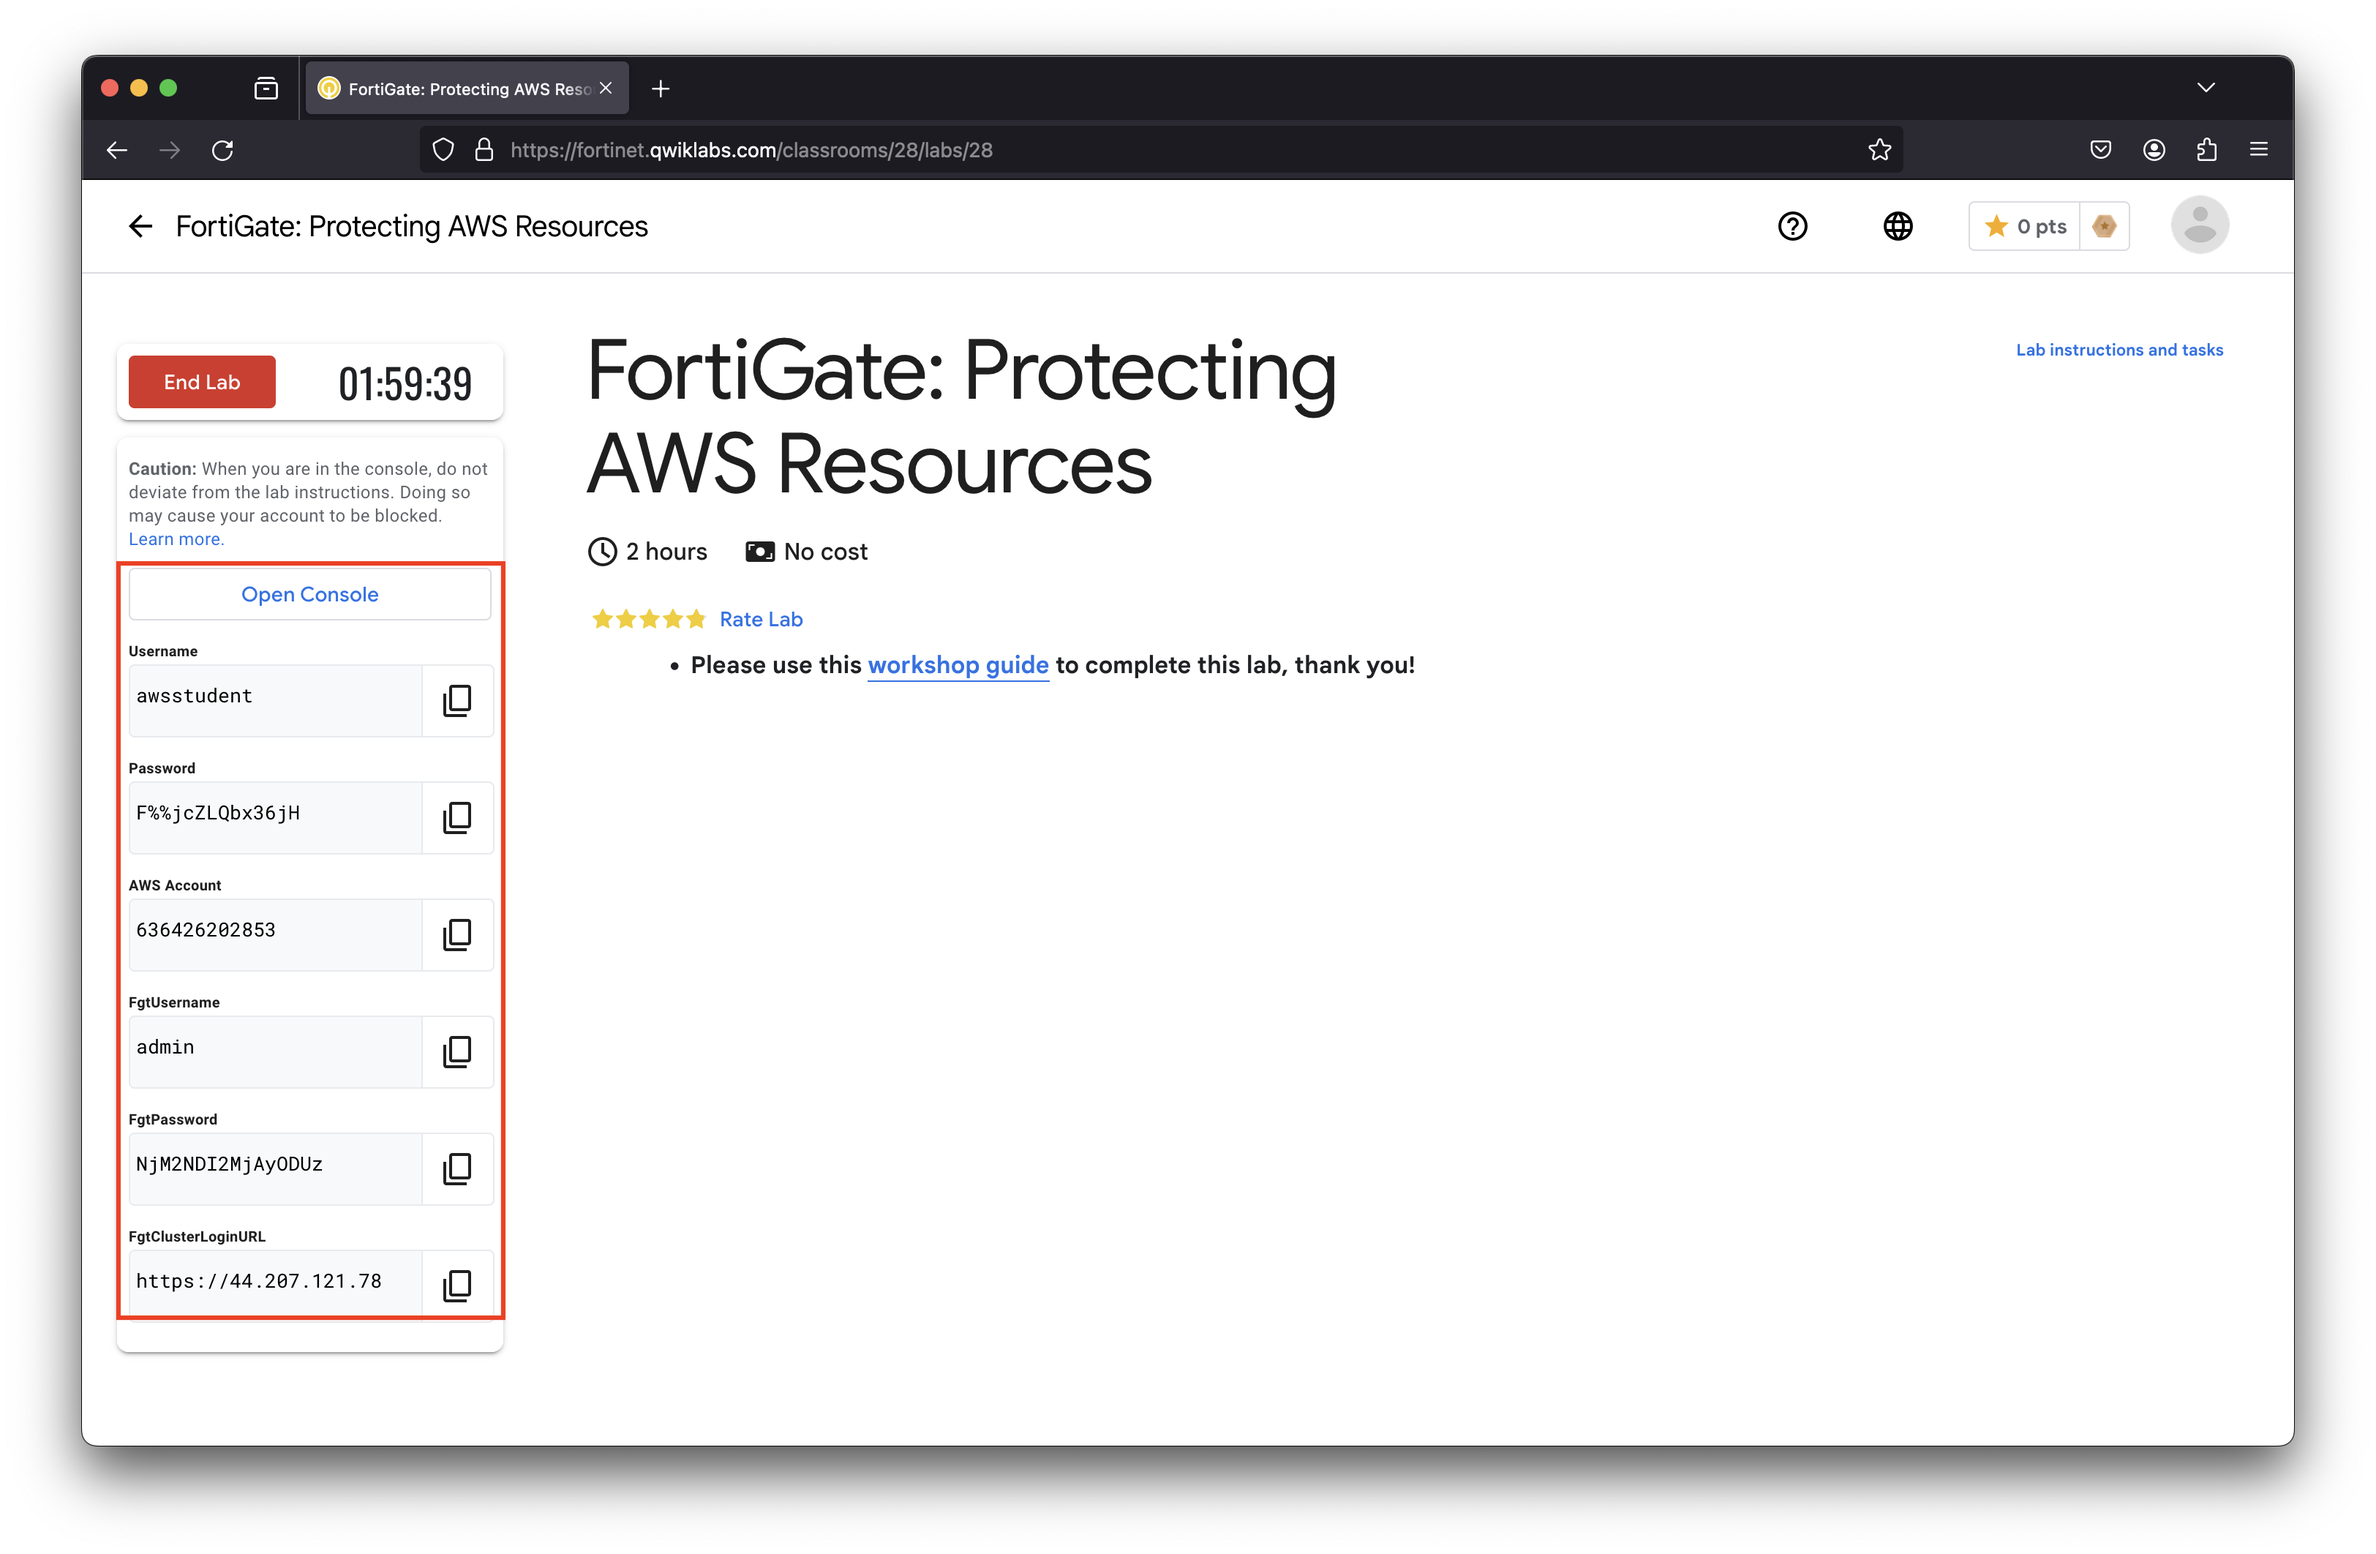
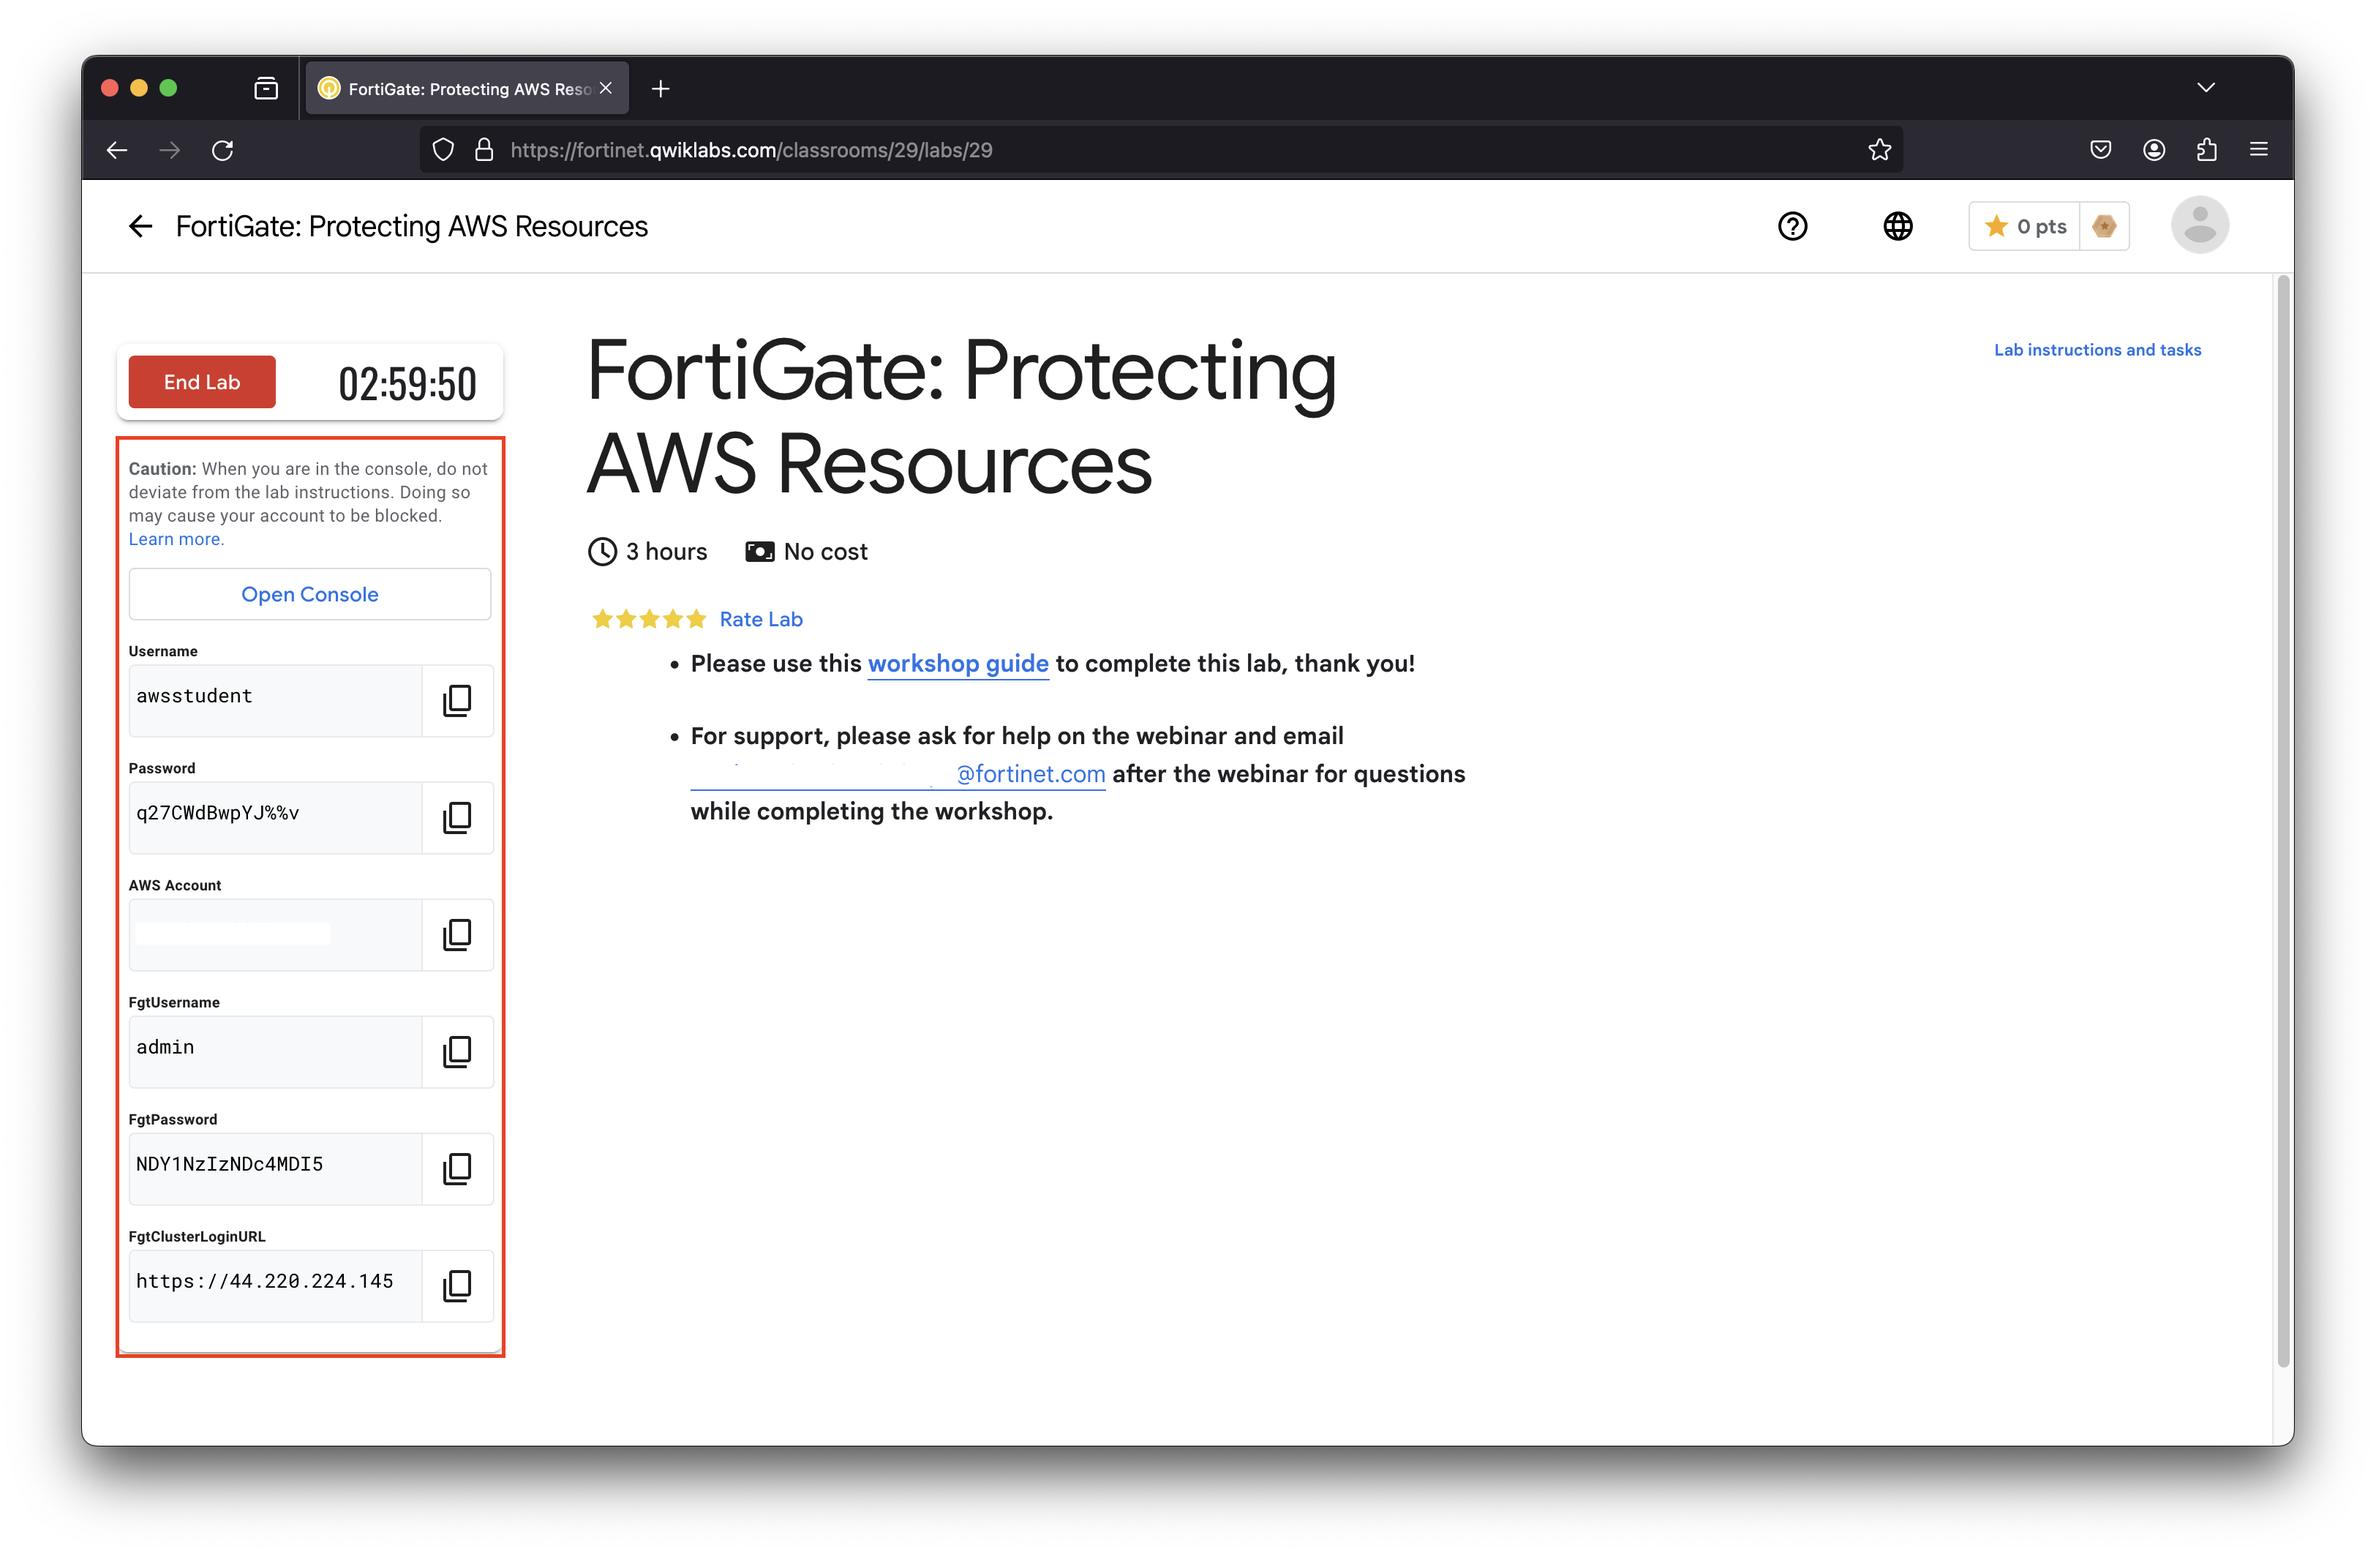
update ql screenshot and lab length

diff --git a/content/2_moduletwo/21_logistics.md b/content/2_moduletwo/21_logistics.md
@@ -26,7 +26,7 @@ Fortinet Cloud Workshops, will use [**QwikLabs**](https://fortinet.qwiklabs.com/
 - Click the green **Start Lab** button to begin.
 
 {{% notice warning %}}
-Provisioning the lab takes ~15 minutes once started.  This environment will run for 2 hours and then automatically shutdown and delete all resources.  If you restart the lab, then you will start with a clean environment where you will start from the beginning again.
+Provisioning the lab takes ~15 minutes once started.  This environment will run for 3 hours and then automatically shutdown and delete all resources.  If you restart the lab, then you will start with a clean environment where you will start from the beginning again.
 {{% /notice %}}
 
 **Once the environment has finished provisioning, check the QwikLabs Console left menu to find FortiGate NGFW & AWS console login URL and credentials .**
